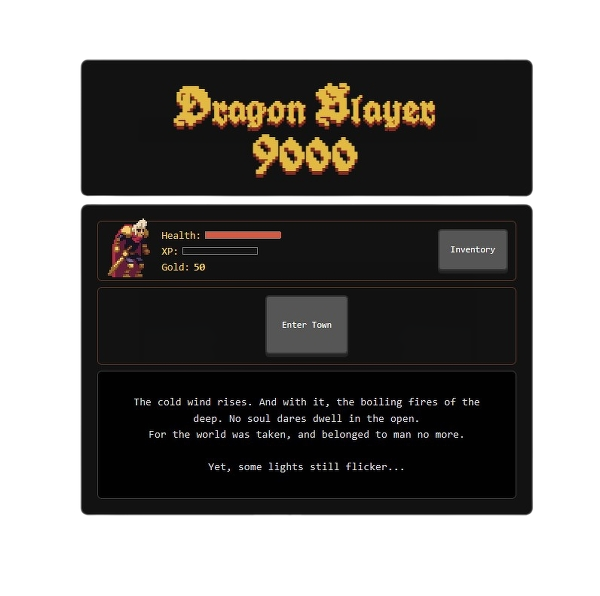
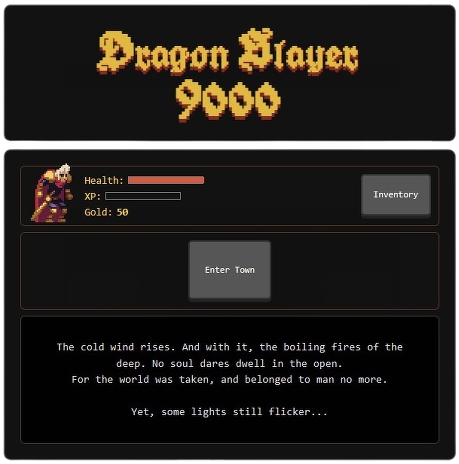
scroll straight to scattered layout bug fixed, enabling and disabling overflow on toggle

diff --git a/js/app.js b/js/app.js
@@ -221,8 +221,10 @@ layoutToggle.addEventListener("click", () => {
     main.classList.add("hidden");
     layoutToggle.innerHTML = `<img src="assets/images/straight.png" alt="Straight Layout">`;
 
-    populateStraightLayout(); // <--- Use the function here
+    document.body.style.overflow = "auto";
+    populateStraightLayout();
 
+    // document.body.style.overflow = "hidden";
   } else {
     projects.classList.remove("fade-in");
     info.classList.remove("fade-in");
@@ -236,6 +238,14 @@ layoutToggle.addEventListener("click", () => {
     });
 
     assignGridPositions();
+
+    // Disable scroll for scattered layout
+    document.body.style.overflow = "hidden";
+
+    // --- FIX: Reset scroll position and prevent scroll ---
+    document.body.scrollTop = 0;
+    document.documentElement.scrollTop = 0;
+    projects.scrollTop = 0;
   }
 });
 

diff --git a/index.html b/index.html
@@ -87,7 +87,7 @@
         class="scattered-link"
         data-preview-id="preview-modal-link4"
         rel="preload"
-        data-screenshot="assets/images/rpg_mini_game.jpg"
+        data-screenshot="assets/images/rpg.png"
         href="https://pedroalves-dv.github.io/dragon-repeller/"
         data-description="Dragon Slayer 9000 is a browser-based role-playing game (RPG)
         developed using HTML, CSS, and JavaScript. Players navigate through various locations,

diff --git a/css/style.css b/css/style.css
@@ -35,12 +35,12 @@ html,
 body {
   background-color: var(--toggle-bg-color);
   color: var(--toggle-text-color);
-  -ms-overflow-style: none; /* IE and Edge */
+  /* -ms-overflow-style: none; */
   scrollbar-width: none;
   margin: 0;
   padding: 0;
   width: 100%;
-  height: 100%;
+  height: 100vh;
 }
 
 body, a, p, div {
@@ -93,6 +93,11 @@ body {
   margin-right: 30px;
 }
 
+.scattered-layout {
+  overflow: hidden;
+
+
+}
 
 
 .linkedin {
